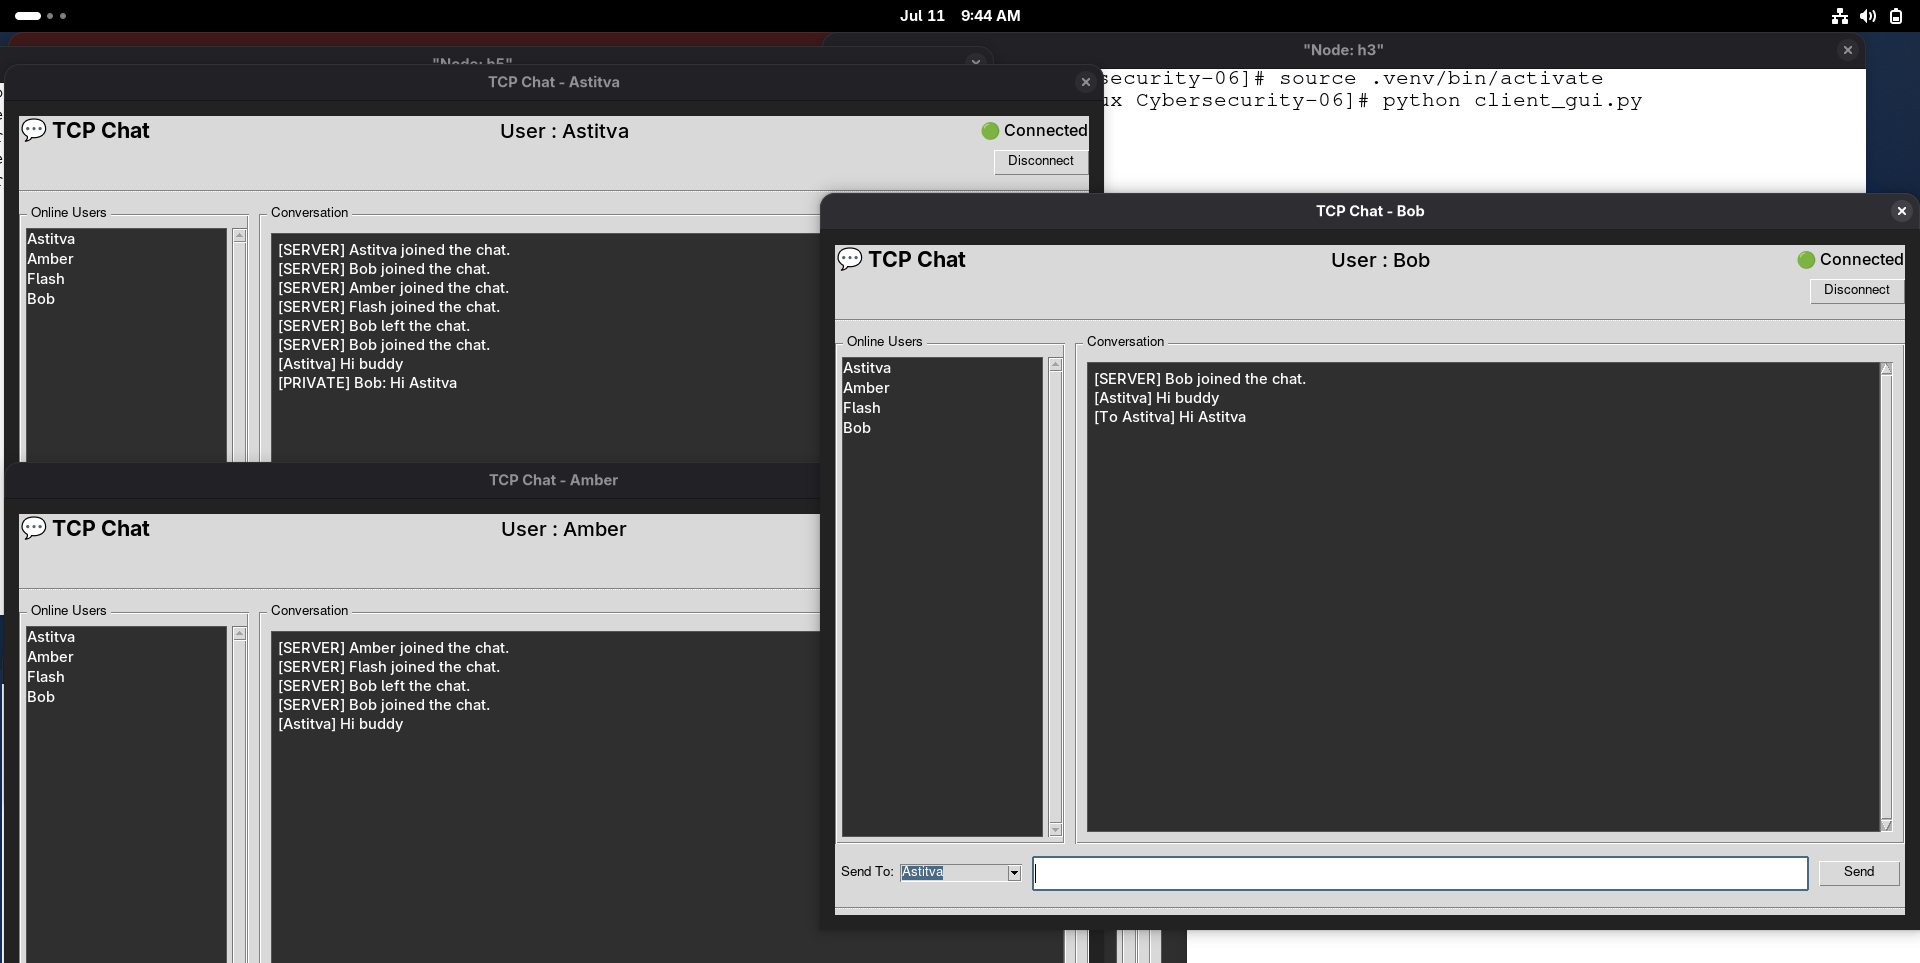
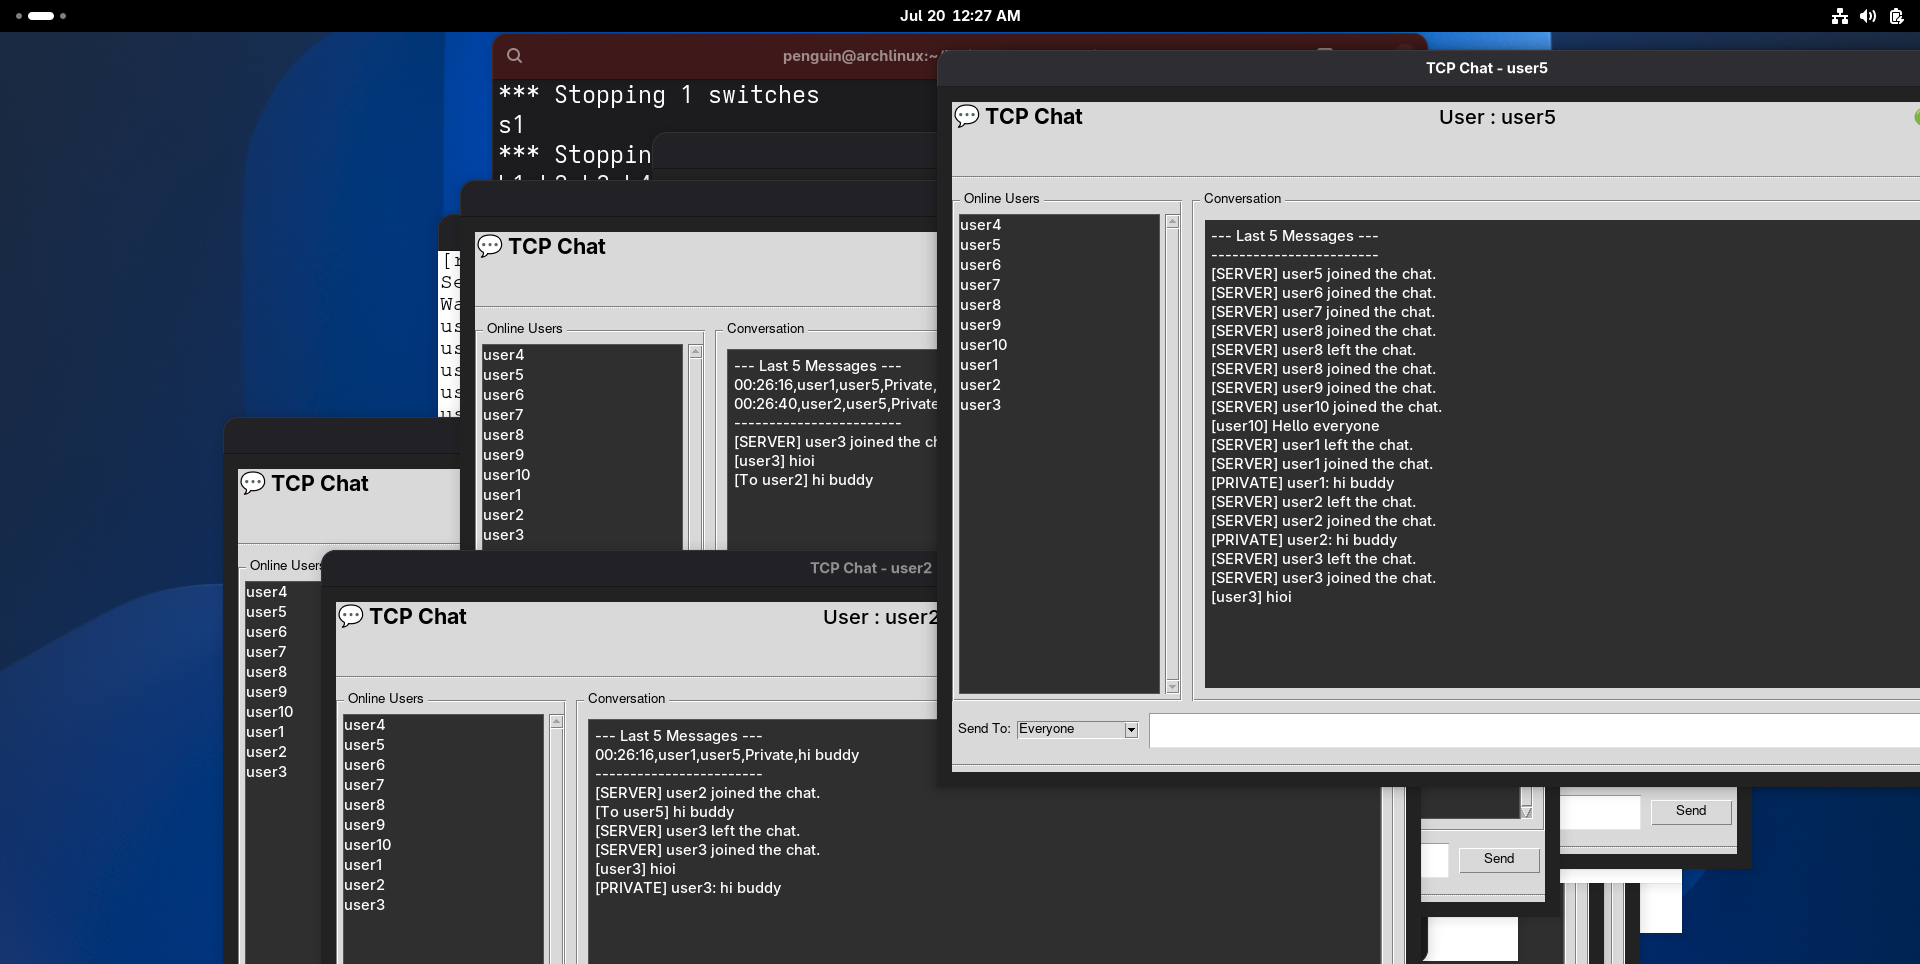
Add files via upload

diff --git a/GUI-Based-TCP-Chat-Application/create_users.py b/GUI-Based-TCP-Chat-Application/create_users.py
@@ -3,11 +3,13 @@ import hashlib
 import os
 
 USER_FILE = "users.csv"
+
+
 def hash_password(password):
     return hashlib.sha256(password.encode()).hexdigest()
 
 
-# Creating users.csv if it doesn't exist
+# Create users.csv if it doesn't exist
 if not os.path.exists(USER_FILE):
     with open(USER_FILE, "w", newline="") as file:
         writer = csv.writer(file)